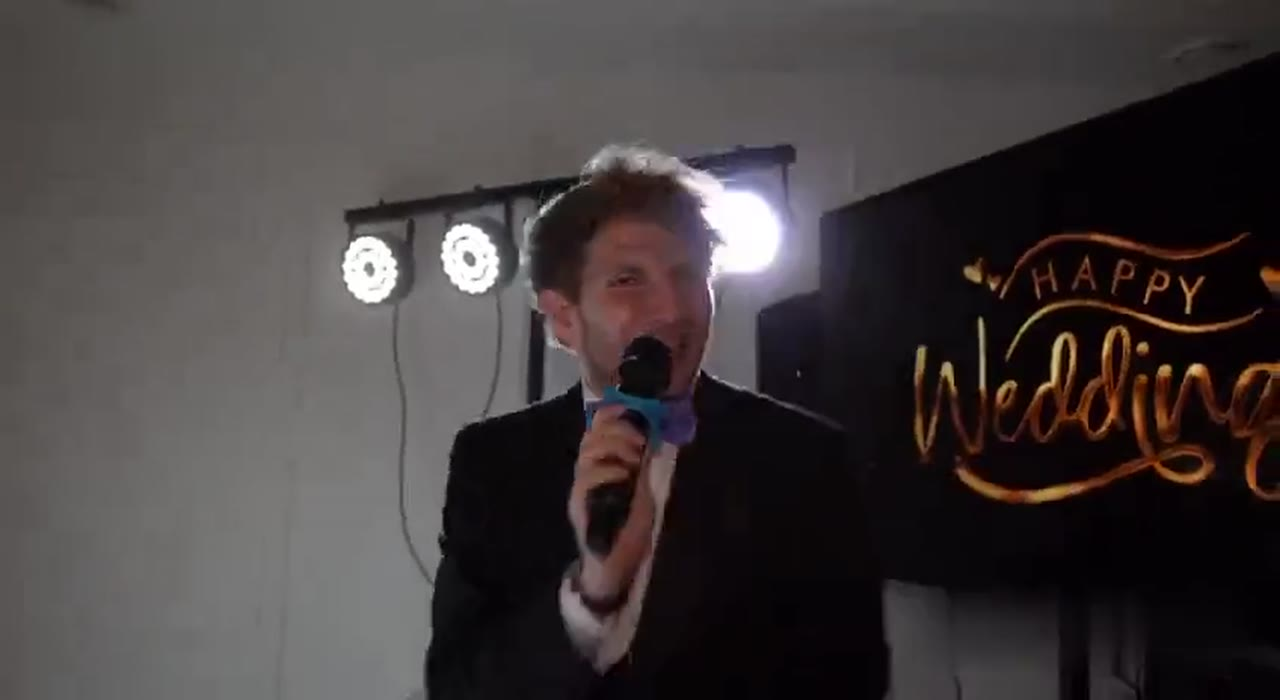
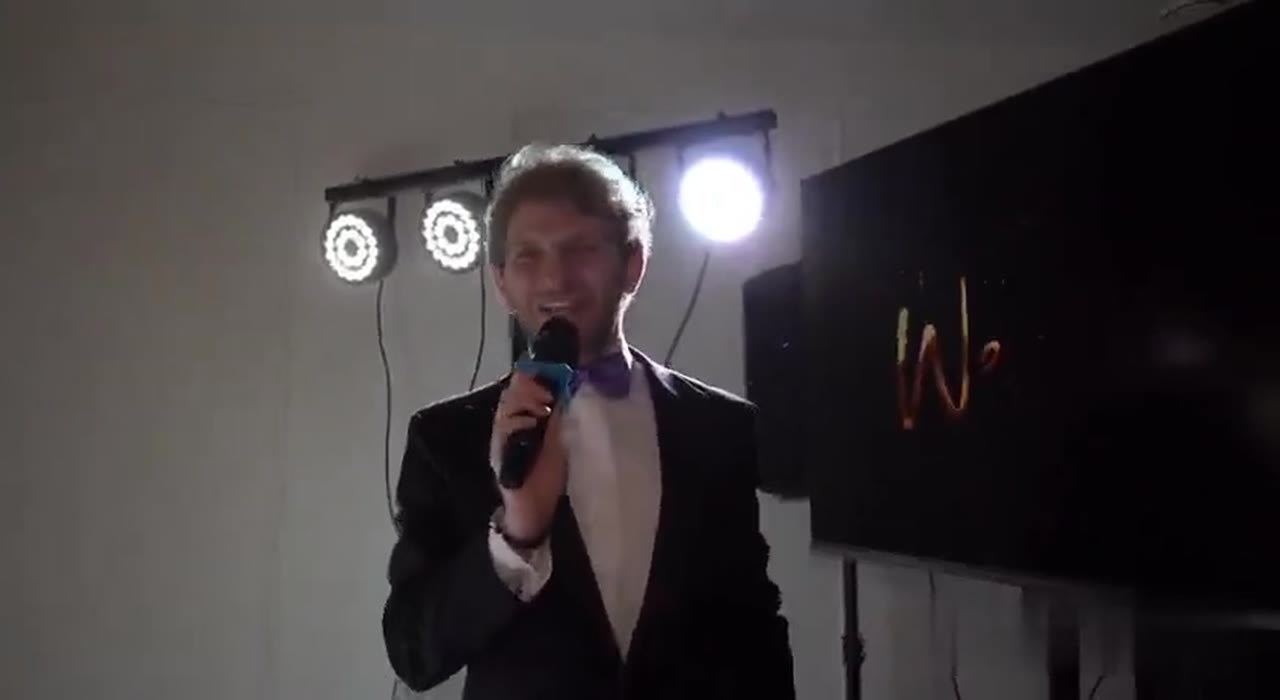
Форматы: название «Музлото» как в рилсах, общий план для «Истории одной свадьбы»
Claude-Session: https://claude.ai/code/session_013zraU7ugccGQEwi9QQ45ef

diff --git a/js/formats.js b/js/formats.js
@@ -7,7 +7,7 @@
 */
 window.FORMATS = {
   'Свадьба': [
-    { title: 'История одной свадьбы', video: 'video/wedding-fast.mp4', poster: 'img/video-wedding-fast.jpg', vertical: false },
+    { title: 'История одной свадьбы', video: 'video/wedding-fast.mp4', poster: 'img/video-wedding-fast.jpg', vertical: false, fit: 'whole' },
     { title: 'Свадебный ведущий Евгений Глуховский 💍', video: 'video/reels/promo.mp4', poster: 'img/promo-wedding-h.jpg', vertical: false },
     { title: 'Свадебный вечер за минуту ✨', video: 'video/formats/wedding-3.mp4', poster: 'img/format-wedding-3.jpg', vertical: true },
     { title: 'Выездная регистрация. Авторский текст ✍', video: 'video/formats/wedding-4.mp4', poster: 'img/format-wedding-4.jpg', vertical: false },
@@ -25,7 +25,7 @@ window.FORMATS = {
     { title: 'Тортик в ресторане «Старая Башня» 🕯', video: 'video/formats/jubilee-6.mp4', poster: 'img/format-jubilee-6.jpg', vertical: true }
   ],
   'Корпоратив': [
-    { title: 'Твой номер один: музлото 🎵', video: 'video/formats/corporate-1.mp4', poster: 'img/format-corporate-1.jpg', vertical: true },
+    { title: 'Музлото, или Твой номер один 😎', video: 'video/formats/corporate-1.mp4', poster: 'img/format-corporate-1.jpg', vertical: true },
     { title: 'Новогодний корпоратив 🎄', video: 'video/formats/corporate-2.mp4', poster: 'img/format-corporate-2.jpg', vertical: true },
     { title: 'Летний волейбольный турнир 🏐☀', video: 'video/reels/summer.mp4', poster: 'img/reel-summer.jpg', vertical: true },
     { title: 'Корпоративо-мексикано 🇲🇽', video: 'video/reels/mexico.mp4', poster: 'img/reel-mexico.jpg', vertical: false },
